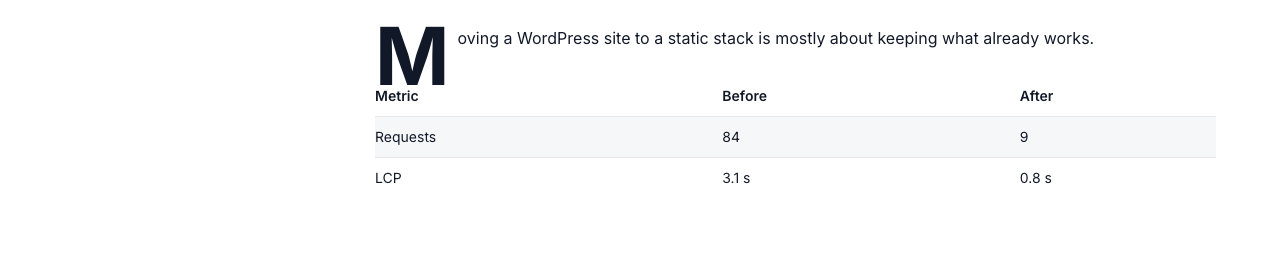
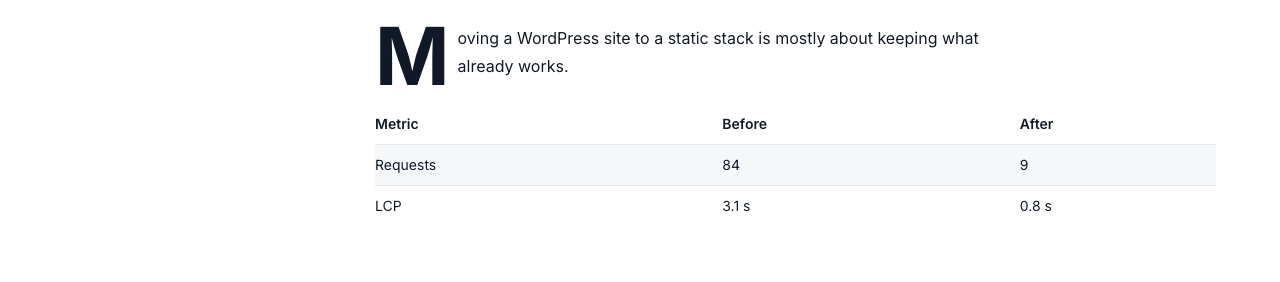
fix(astro-starter): reading measure in characters for rich-text bodies (GENERIC)
A body's column is set in rem (--container-prose: 46rem), and Prose turns off
Tailwind Typography's own measure (max-w-none), so a narrow face runs its lines
past the acceptance limit of 90 characters: Archivo at prose-lg made 97 a line
on /sample-page/ @1280.

prose-site now caps its running text (p, li, dd, blockquote) at 62ch, which
follows each block's own face and size. The column, its pictures and its wide
blocks keep their width; centred paragraphs stay centred.

Measured on the stored brake run's dist: 97/96/89 -> 84/78/77 characters a line.
Kit visual (darwin): tabs/underline @768/@1280 and prose/inset-27 @1280 wrap one
more line; baselines updated.

diff --git a/templates/astro-starter/src/styles/global.css b/templates/astro-starter/src/styles/global.css
@@ -136,6 +136,13 @@
   .prose-site.prose-lg :where(h2):not(:where([class~='not-prose'], [class~='not-prose'] *)) { line-height: var(--leading-heading, 1.3333333); }
   .prose-site.prose-lg :where(h3):not(:where([class~='not-prose'], [class~='not-prose'] *)) { line-height: var(--leading-heading, 1.5); }
   .prose-site.prose-lg :where(h4):not(:where([class~='not-prose'], [class~='not-prose'] *)) { line-height: var(--leading-heading, 1.5555556); }
+  /*
+   * The reading measure, in the text's own characters: a body's column is set in rem, so a narrow face or a small
+   * body size would run its lines past ~90 characters. `ch` follows each block's own face and size; 62ch keeps a line
+   * under 90 average characters even in a narrow face (the column itself, its pictures and wide blocks keep their width).
+   */
+  .prose-site :where(p, li, dd, blockquote):not(:where([class~='not-prose'], [class~='not-prose'] *)) { max-width: 62ch; }
+  .prose-site :where(.has-text-align-center, .aligncenter):not(:where([class~='not-prose'], [class~='not-prose'] *)) { margin-inline: auto; }
   /* A kit heading drawn with the tight track takes the heading track instead (see --tracking-heading). */
   :is(h1, h2, h3, h4, h5, h6).tracking-tight { letter-spacing: var(--tracking-heading, var(--tracking-tight)); }
 }
